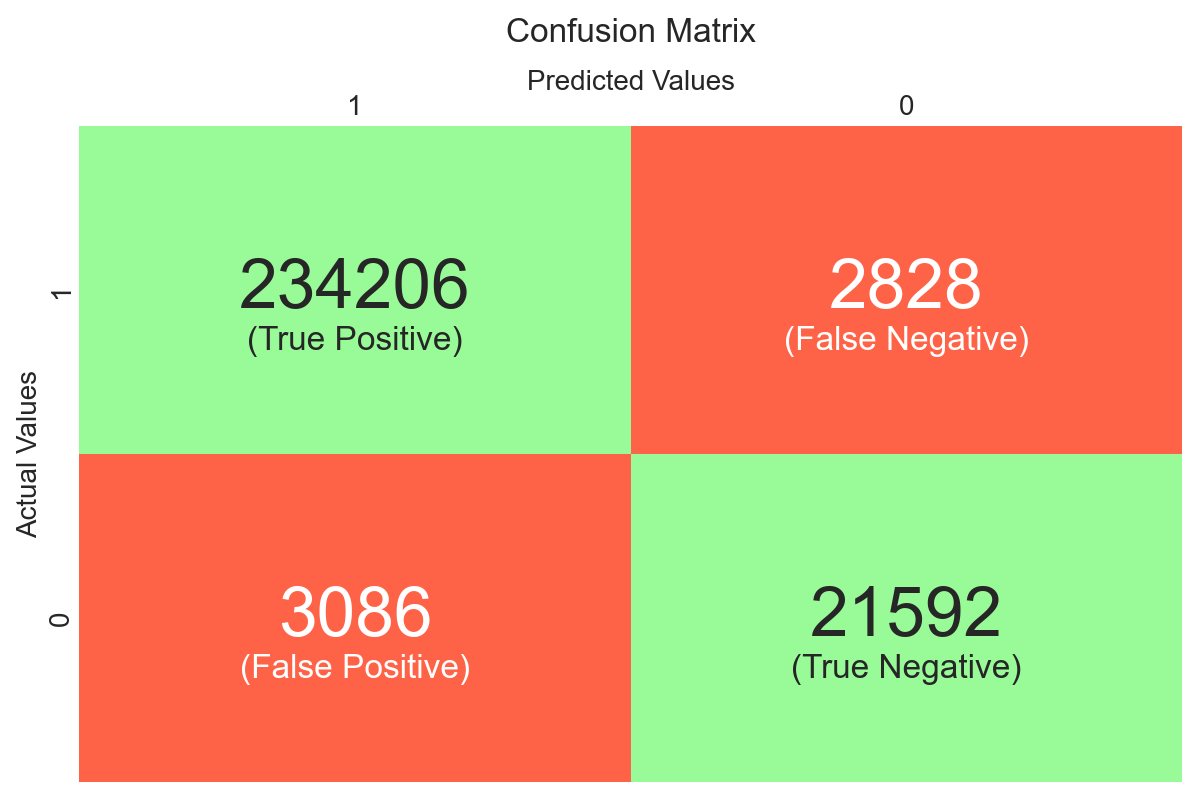
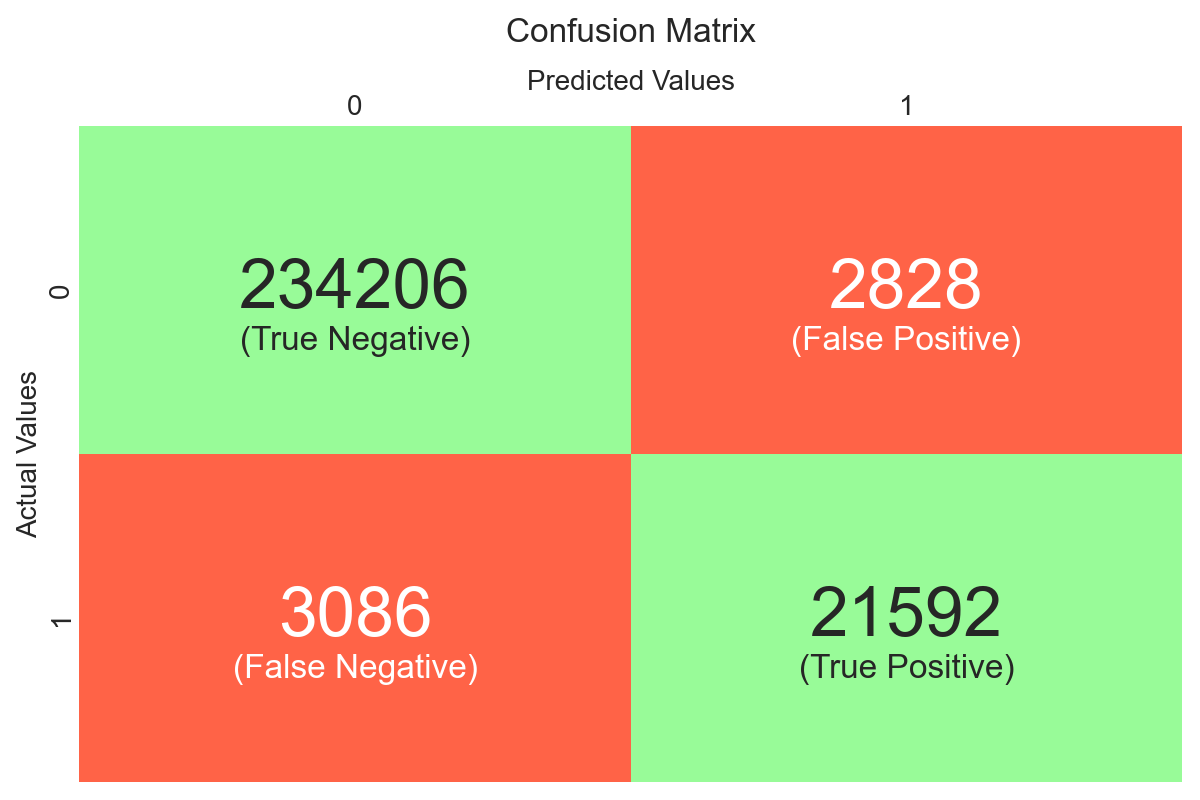
fix: confusion matrix and save predictions

diff --git a/infer.py b/infer.py
@@ -107,6 +107,7 @@ def prepare_dataset(
 ) -> tuple[pd.DataFrame, pd.DataFrame, pd.DataFrame, pd.DataFrame]:
     # Load dataset
     X = pd.read_csv(X)
+    X_ids = X[['ID']]
 
     # Do preprocessing
     X = feature_engineering(X, assets_filepath, training=False)
@@ -117,7 +118,7 @@ def prepare_dataset(
         Y = Y['target']
 
     # Return
-    return X, Y
+    return X, Y, X_ids
 
 
 def load_model(model_filepath: str) -> tuple[list[ClassifierMixin], ClassifierMixin]:
@@ -168,7 +169,7 @@ def evaluate(
     fig, ax = plt.subplots(figsize=(12, 8))
     sns.heatmap(np.eye(2), annot=cm, fmt='g', annot_kws={'size': 50},
                 cmap=sns.color_palette(['tomato', 'palegreen'], as_cmap=True), cbar=False,
-                yticklabels=['1', '0'], xticklabels=['1', '0'], ax=ax)
+                yticklabels=['0', '1'], xticklabels=['0', '1'], ax=ax)
     ax.xaxis.tick_top()
     ax.xaxis.set_label_position('top')
     ax.tick_params(labelsize=20, length=0)
@@ -177,7 +178,7 @@ def evaluate(
     ax.set_xlabel('Predicted Values', size=20)
     ax.set_ylabel('Actual Values', size=20)
 
-    additional_texts = ['(True Positive)', '(False Negative)', '(False Positive)', '(True Negative)']
+    additional_texts = ['(True Negative)', '(False Positive)', '(False Negative)', '(True Positive)']
     for text_elt, additional_text in zip(ax.texts, additional_texts):
         ax.text(*text_elt.get_position(), '\n' + additional_text, color=text_elt.get_color(),
                 ha='center', va='top', size=24)
@@ -200,7 +201,7 @@ if __name__ == '__main__':
     logger.info('Preparing dataset for the inference..')
     _st_time = time.time()
 
-    X, Y = prepare_dataset(
+    X, Y, X_ids = prepare_dataset(
         X = args.X,
         Y = args.Y,
         assets_filepath=args.assets_filepath
@@ -225,10 +226,10 @@ if __name__ == '__main__':
         threshold=args.threshold,
     )
 
-    X['prediction'] = y_pred
-    X['confidence'] = y_prob
+    X_ids['prediction'] = y_pred
+    X_ids['confidence'] = y_prob
     os.makedirs(os.path.dirname(args.savepath), exist_ok=True)
-    X.to_csv(args.savepath, index=False)
+    X_ids.to_csv(args.savepath, index=False)
 
     ####################### EVALUATE PERFORMANCE #######################
     if Y is not None:

diff --git a/README.md b/README.md
@@ -51,7 +51,7 @@ To perform inference, you need to download the trained models and artifacts. Alt
 The following resources are saved on Google Drive:
 - Pre-trained model 'stackEnsembleV2.joblib' (for classification) [Download here](https://drive.google.com/file/d/1Zz2T2_HJUC14Ebf0GWUKwYPpp4q1kWNw/view?usp=drive_link) (~400 MB)
 - Isolation Forests 'isoforestsFS2.joblib' (for feature enginnering) [Download here](https://drive.google.com/file/d/1J6oS9HeL_IoS4OpgvgD9oU9h1CM91YRF/view?usp=drive_link) (~2 MB)
-- Prediction (in csv) on the given test dataset [Download here](https://drive.google.com/file/d/168a5F4KMIDVOQCpZbvAfING0H-XlhoUH/view?usp=drive_link) (~66 MB)
+- Prediction (in csv) on the given test dataset [Download here](https://drive.google.com/file/d/168a5F4KMIDVOQCpZbvAfING0H-XlhoUH/view?usp=drive_link) (~10 MB)
 
 If you choose to train locally, ensure you have the appropriate datasets and configurations as mentioned below in the project documentation.
 
